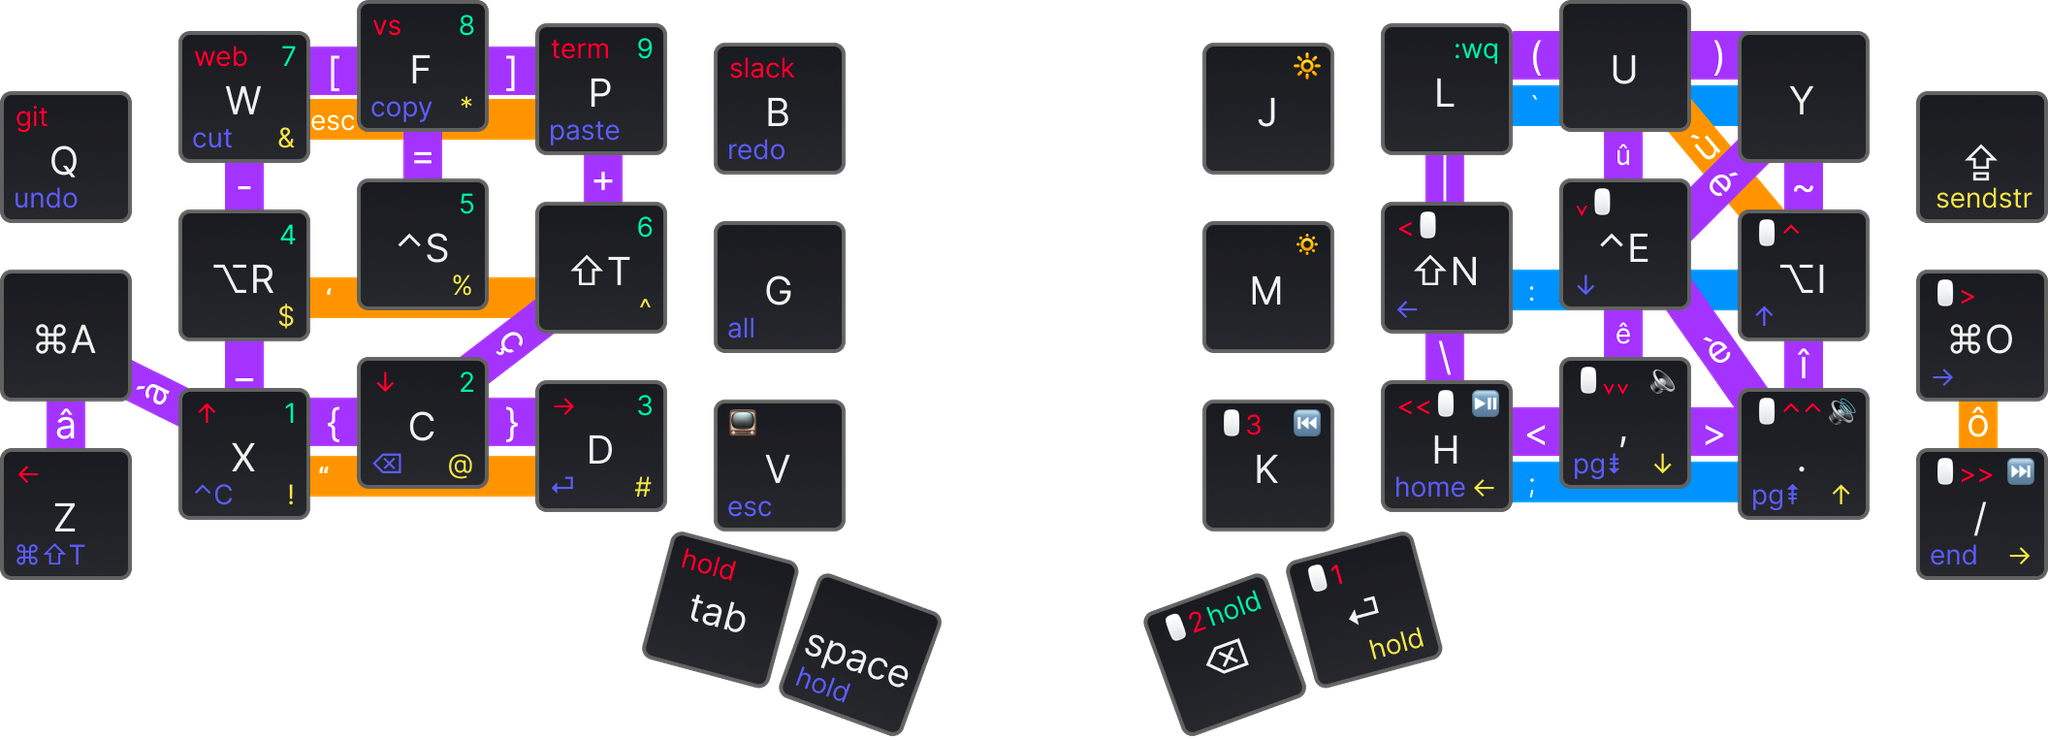
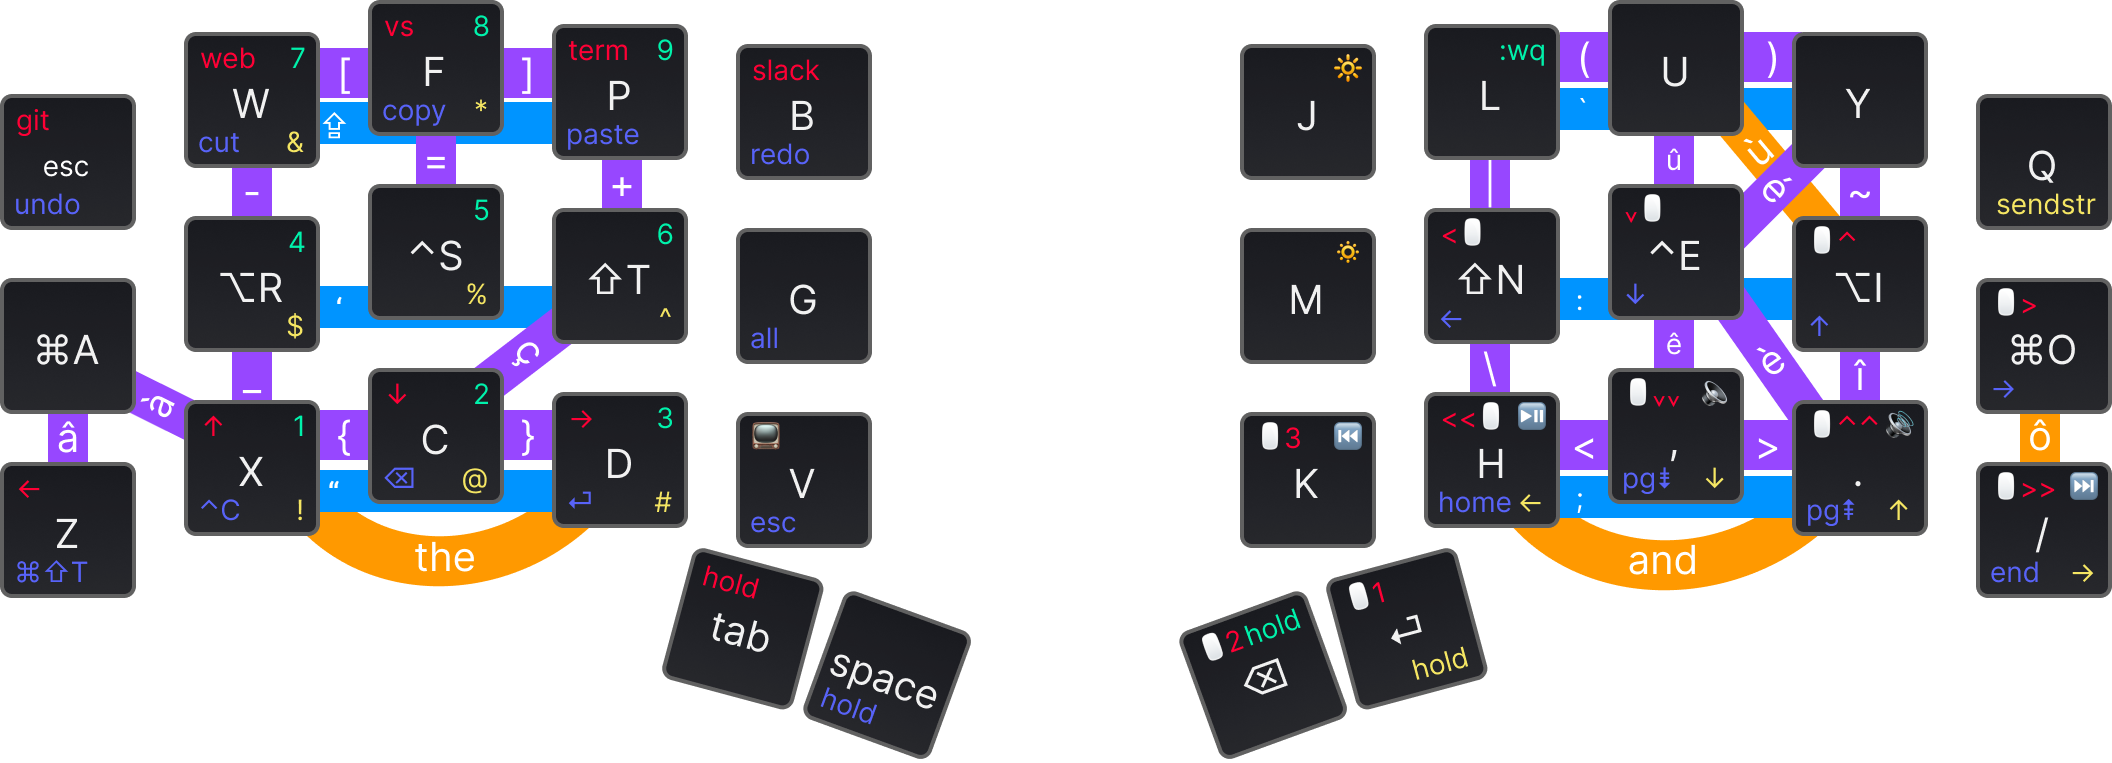
Move Q on the right hand and add ESC on the left

diff --git a/keymap.c b/keymap.c
@@ -131,7 +131,7 @@ const uint16_t PROGMEM keymaps[][MATRIX_ROWS][MATRIX_COLS] = {
 
     [_BASE] = LAYOUT_split_3x6_3(
     //|------------------+------------------+------------------+------------------+-----------------|   |------------------+------------------+------------------+------------------+------------------|
-             KC_NO, KC_Q        ,       KC_W       ,       KC_F       ,       KC_P       ,      KC_B       ,           KC_J       ,      KC_L        ,       KC_U       ,       KC_Y       ,LT(_SENDSTR, KC_CAPS),KC_NO,
+             KC_NO, KC_ESC      ,       KC_W       ,       KC_F       ,       KC_P       ,      KC_B       ,           KC_J       ,      KC_L        ,       KC_U       ,       KC_Y       ,LT(_SENDSTR, KC_Q),KC_NO,
     //|------------------+------------------+------------------+------------------+-----------------|   |------------------+------------------+------------------+------------------+------------------|
        KC_NO, MT(MOD_LGUI, KC_A),MT(MOD_LALT, KC_R),MT(MOD_LCTL, KC_S),MT(MOD_LSFT, KC_T),      KC_G       ,           KC_M       ,MT(MOD_RSFT, KC_N),MT(MOD_RCTL, KC_E),MT(MOD_RALT, KC_I),MT(MOD_RGUI, KC_O),KC_NO,
     //|------------------+------------------+------------------+------------------+-----------------|   |------------------+------------------+------------------+------------------+------------------|

diff --git a/features/combo.c b/features/combo.c
@@ -36,7 +36,7 @@ enum combos {
   COMBO_RPAR,
   COMBO_LPAR,
 
-  COMBO_ESC,
+  COMBO_CAPS,
   COMBO_QUOTE,
   COMBO_DQUOTE,
   COMBO_BQUOT,
@@ -73,7 +73,7 @@ const uint16_t PROGMEM combo_u_grave[] = {KC_U, MT(MOD_RALT, KC_I), COMBO_END};
 const uint16_t PROGMEM combo_o_circumflex[] = {MT(MOD_RGUI, KC_O), LT(_RGB, KC_SLSH), COMBO_END};
 const uint16_t PROGMEM combo_c_cedi[] = {KC_C, MT(MOD_LSFT, KC_T), COMBO_END};
 
-const uint16_t PROGMEM combo_esc[] = {KC_W, KC_F, KC_P, COMBO_END};
+const uint16_t PROGMEM combo_caps[] = {KC_W, KC_F, KC_P, COMBO_END};
 
 /* ' " ` */
 const uint16_t PROGMEM combo_quote[] = {MT(MOD_LALT, KC_R),MT(MOD_LCTL, KC_S),MT(MOD_LSFT, KC_T), COMBO_END};
@@ -118,7 +118,7 @@ combo_t key_combos[] = {
     [O_CIRCUMFLEX] = COMBO(combo_o_circumflex, SS_O_CIRCUMFLEX),
     [C_CEDI] = COMBO(combo_c_cedi, LOPT(KC_C)),
 
-    [COMBO_ESC] = COMBO(combo_esc, KC_ESC),
+    [COMBO_CAPS] = COMBO(combo_caps, KC_CAPS),
     [COMBO_QUOTE] = COMBO(combo_quote, KC_QUOTE),
     [COMBO_DQUOTE] = COMBO(combo_dquote, LSFT(KC_QUOTE)),
 
